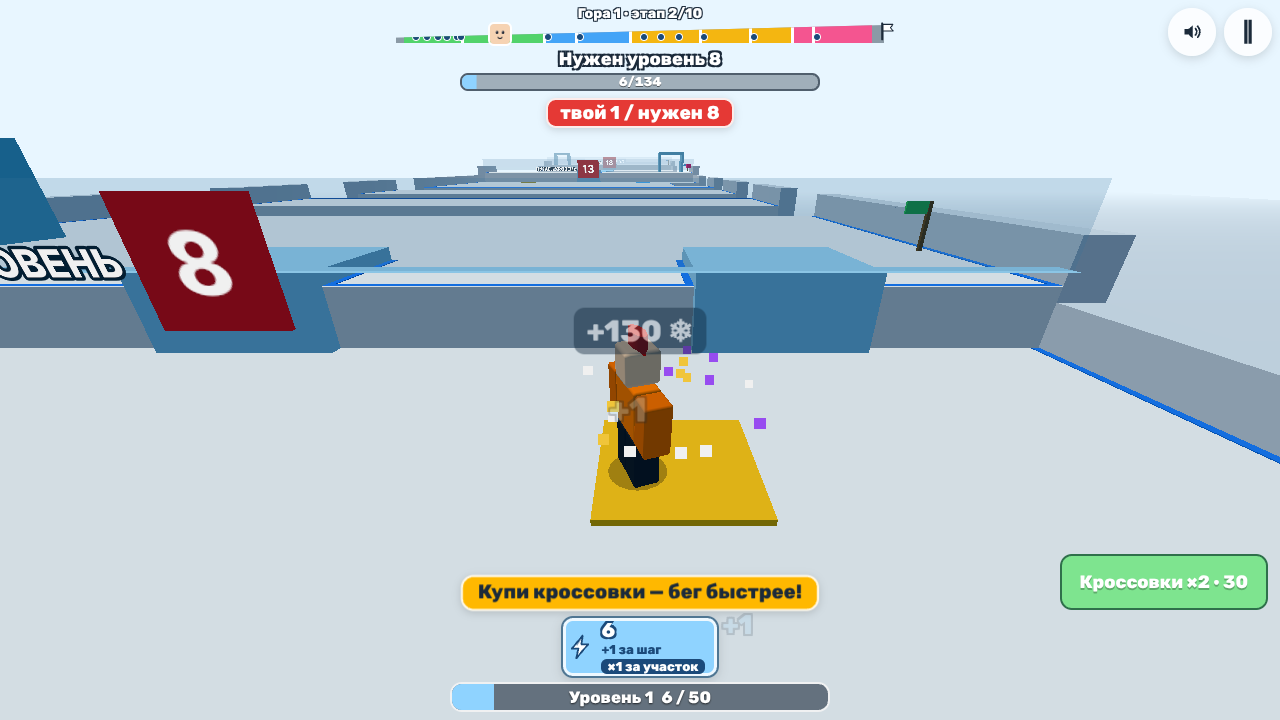
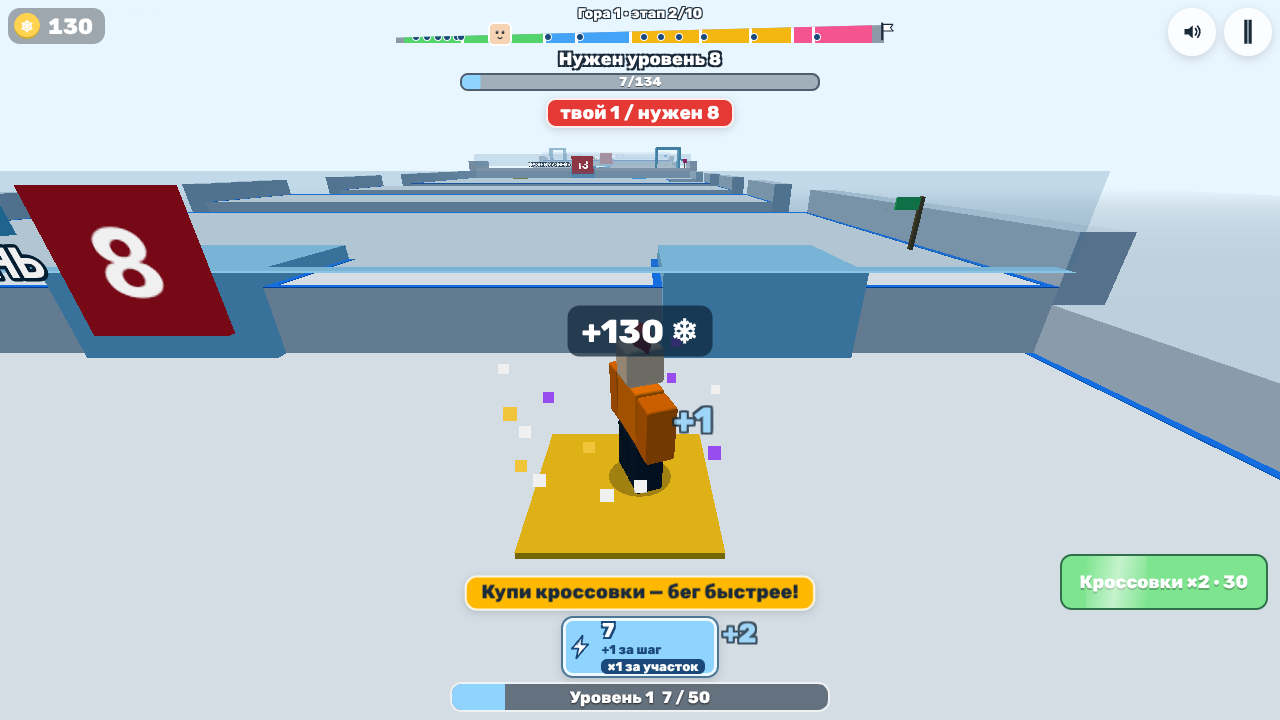
SD-11: ревизор-игрок по валютам и правки — «+N ❄» над кнопкой этапа, телепорт без значка кубка, плашка монет сразу, награды без «+0»
Claude-Session: https://claude.ai/code/session_01XtHYjMWcS9tMAGH9oMjFT7

diff --git a/src/ui/hud.ts b/src/ui/hud.ts
@@ -431,7 +431,8 @@ export function createHud(host: HTMLElement, opts: HudOptions): Hud {
   standLabel.dataset['role'] = 'stand-label';
   standLabel.style.pointerEvents = 'none';
   root.appendChild(standLabel);
-  // The trophy button of a stage finish (docs/01-gdd.md 22.8): «+N 🏆» over it, the trophy colour.
+  // The reward button of a stage finish (docs/01-gdd.md 22.8): «+N ❄» over it on the coin colour — it pays coins (SD-11,
+  // Q-088: trophies are only those of summits); the teleport of the camp — the plain plaque, no currency mark.
   const padLabel = el('div', 'hud-egg hud-pad');
   padLabel.dataset['role'] = 'pad-label';
   // The teleport label of the camp is a button too (LV-12: it looked like one).
@@ -441,9 +442,8 @@ export function createHud(host: HTMLElement, opts: HudOptions): Hud {
     ev.stopPropagation();
     opts.onPadLabel?.();
   });
-  padLabel.style.setProperty('--trophies', opts.trophyColor);
-  const padIcon = el('span', 'hud-pad-icon');
-  padIcon.innerHTML = icon('trophy');
+  padLabel.style.setProperty('--coins', opts.coinColor);
+  const padIcon = el('span', 'hud-pad-icon', '\u2744');
   const padText = el('span', '');
   padLabel.append(padText, padIcon);
   root.appendChild(padLabel);

diff --git a/src/styles.css b/src/styles.css
@@ -250,8 +250,10 @@ canvas.fallback {
 .hud-egg { position: absolute; left: 0; top: 0; display: none; min-height: 48px; padding: 0 16px; border: 2px solid rgba(27, 42, 58, 0.6); border-radius: 12px; background: #9aa7b4; color: #fff; font: 800 18px/1 var(--font); white-space: nowrap; text-shadow: 0 2px 0 rgba(0, 0, 0, 0.25); cursor: pointer; touch-action: none; user-select: none; -webkit-user-select: none; }
 .hud-egg.shown { display: flex; align-items: center; }
 .hud-egg.can { background: var(--ok); }
-.hud-pad { background: var(--trophies); gap: 6px; font-size: 20px; }
-.hud-pad-icon { width: 22px; height: 22px; display: inline-flex; }
+.hud-pad { background: var(--coins); color: var(--plaque-text); gap: 6px; font-size: 20px; text-shadow: 0 2px 2px rgba(0, 0, 0, 0.45); }
+.hud-pad.tap { background: var(--plaque); }
+.hud-pad.tap .hud-pad-icon { display: none; }
+.hud-pad-icon { width: 22px; height: 22px; display: inline-flex; align-items: center; justify-content: center; }
 .hud-pad-icon svg { width: 100%; height: 100%; }
 .hud-coin-icon svg { width: 100%; height: 100%; display: block; }
 /* One message near the hero at a time: the egg button steps aside while a toast is up (after a hatch). */

diff --git a/src/app/rewards.ts b/src/app/rewards.ts
@@ -54,7 +54,12 @@ export function createRewards(d: RewardsDeps): Rewards {
       const sim = d.getSim();
       const zone = zoneAt(sim.level, sim.hero.pos.z);
       const gift = sim.gifts.find((g) => g.zone === zone) ?? sim.gifts[0];
-      return scaled(gifts * (gift?.coins ?? 0), sim.tier, d.balance.rebirth);
+      // SD-11 (review: «Coins +0» on the base and the stages, no gifts there): the zone value of the mountain (SD-02).
+      const zg = sim.level.zoneGifts ?? {};
+      // The base has no zones: the first zone of the player's mountain.
+      const own = d.worlds.find((w) => w.index === (d.save.world ?? 1))?.zones[0]?.gift;
+      const value = gift?.coins ?? zg[zone] ?? Object.values(zg)[0] ?? own ?? 0;
+      return scaled(gifts * value, sim.tier, d.balance.rebirth);
     },
     eggOf(id) {
       if (id !== 'best') return d.eggs.eggs.find((e) => e.id === id);

diff --git a/src/app/stage-view.ts b/src/app/stage-view.ts
@@ -54,10 +54,14 @@ export function createStageView(d: StageViewDeps): StageView {
       return taken;
     },
     wire(sim) {
-      sim.events.on('trophyTake', ({ amount, x, y, z, trophies }) => {
+      sim.events.on('trophyTake', ({ amount, x, y, z, trophies, total }) => {
         taken++;
         d.hud.toast(t('toast.trophyPad', { n: fmt(amount) }));
-        if (!trophies) d.hud.popCoinGain(`+${fmt(amount)}`);
+        if (!trophies) {
+          // SD-11 (review: the coin plaque stayed hidden after a button): the wallet shows at once.
+          d.hud.setCoins(fmt(total));
+          d.hud.popCoinGain(`+${fmt(amount)}`);
+        }
         d.fx()?.burst('confetti', x, y + 1.5, z, [d.theme.ui.trophies, '#ffffff', d.theme.ui.coins], 36, 9, 3);
         d.play('levelUp');
         d.onTrophy?.(amount, trophies);

diff --git a/docs/evidence/sd/review-coins.md b/docs/evidence/sd/review-coins.md
@@ -1,0 +1,82 @@
+# Ревизор-игрок: валюты после решения продюсера 16.10 (Q-088, SD-11)
+
+Дата: 16.10. Сборка `dist-e2e` от 08:44 (содержит SD-11, строка «Купи кроссовки» в сборке есть). Темп `stages`, окно 812×375, касания (`hasTouch`, `mock_device=mobile`). Временный spec на фикстурах e2e, после прогона удалён. До финишей добирался телепортом и `setStat`; кнопки нажимал касанием по реальным элементам.
+
+**Итог:** правило про валюты в цифрах выполнено. Кнопка этапа даёт монеты, кроссовки и телепорт списывают монеты, кубки дают только вершины. Но на экране значок кубка всё ещё стоит у двух вещей, которые относятся к монетам: у подписи «+N» над кнопкой финиша этапа и у кнопки «Телепорт» в лагере. Обе подписи фиолетовые, это цвет кубков. Кроме того, после кнопки этапа в HUD не появляется плашка монет. Найдены ещё две вещи не про валюты: на базе кнопки сообществ закрывают правую колонку меню, а в «Наградах за время» стоит «Монеты +0».
+
+## По пунктам
+
+| № | Что | Вердикт | Доказательство |
+|---|---|---|---|
+| 1 | Кнопка финиша этапа | **найдено** (подпись) / в порядке (начисление) | Гора 1, этап 2. Подпись над кнопкой: «+130» со **значком кубка**, фиолетовая (`coins-pad-cup.png`). Тост: «+130 ❄», у плашки: «+130». Монет +130, `trophies.now` +0, `trophies.total` +0. Потом полёт в лагерь (hero.z 20). Пока герой стоит на кнопке все 50 тиков до полёта, монеты начисляются один раз (+130, `padsTaken` 1 → 0 после лагеря). Гора 3, этап 2: монет +1900, тост «+1,9K ❄», кубки +0. **Плашки монет в HUD нет** ни после +130, ни после +1,9K (`coinPlaque.shown=false`, на скриншоте лагеря её тоже нет) |
+| 2 | Кроссовки за монеты | в порядке (мелочь) | Кнопка HUD «Кроссовки ×2 · 30»: касание списывает 30 монет, кубки +0. Лавка, вкладка «Кроссовки»: в шапке «❄4,97K», на карточке «❄300 Купить», покупка списывает 300 монет, кубки +0. Мелочь: на кнопке HUD цена без значка ❄ |
+| 3 | Телепорт лагеря | в порядке (окно) / **найдено** (кнопка) | Окно: «Этап 2 — за 130 ❄», после первого касания «Да, за 130 ❄», после второго монет −130, кубки +0, герой на старте этапа 2. Гора 3: «за 1,9K ❄», монет −1900. Но кнопка-подпись в лагере — «Телепорт» со **значком кубка** на фиолетовом (`coins-camp-teleport.png`), а платится он монетами |
+| 4 | Окно вершины гор 1 и 2 | в порядке | Гора 1: «Сундук: +500» со значком ❄ (монет +500), «Кубки: +1» со значком кубка (кубки 0 → 1). Гора 2: «Сундук: +2K» ❄, «Кубки: +2» (кубки 1 → 3). Плашка кубков в HUD — значок кубка и «1», потом «3», то есть `trophies.now`. Плашка монет рядом отдельная: ❄ 500, потом ❄ 2,5K. До первой вершины плашки кубков нет |
+| 5 | Все «кубк»/🏆 на экране | **найдено** (2 употребления значка про монеты) | Список ниже |
+| 6 | «Купи кроссовки — бег быстрее!» | в порядке | Гора 1: герой ниже закрытого рубежа этапа 3 (z 510, рубеж z 519, уровень 5 из нужных 8), монет хватает, плашка видна. Она же стоит на финише этапа 2 сразу после +130 монет. Гора 3: в лагере при 1,9K монет |
+| 7 | Сквозной грот этапа 6 | в порядке | Гора 1, этап 6. На «Лавина через N» плашка «Спрячься за камень!», герой в гроте (z 1203,7, x −18). После волны тост «Уф, успел! +54». Стик «вверх» 5 с: герой прошёл грот насквозь и ушёл по склону с 1204,7 до 1431,7 (+227), x ровно −17,6, скорость 42,5–42,8, не застрял. Мелочь: в «Уф, успел! +54» нет значка ❄ |
+
+## Находки
+
+| № | Серьёзность | Где | Что | Что предлагаю |
+|---|---|---|---|---|
+| 1 | **3** | Подпись над кнопкой финиша этапа (`[data-role=pad-label]`, `src/ui/hud.ts`, `padIcon = icon('trophy')`, цвет `--trophies`) | «+130» со **значком кубка**, фиолетовая, а кнопка даёт монеты. Тост рядом при этом «+130 ❄». Одна награда помечена двумя валютами | Поставить значок ❄ и цвет монет вместо кубка и фиолетового |
+| 2 | **3** | Кнопка «Телепорт» в лагере (та же подпись) | «Телепорт» со **значком кубка** на фиолетовом, а платится монетами («за 130 ❄») | Убрать значок кубка или поставить ❄ |
+| 3 | 2 | HUD, темп stages, до первой вершины | Кнопка этапа дала +130 и +1,9K монет, а плашки монет нет (`coinPlaque.shown=false`). Игрок не видит, сколько у него монет, хотя телепорт и кроссовки стоят монеты. Плашка появляется только после монет из другого источника: «Уф, успел! +54» или сундук вершины | В обработчике `trophyTake` вызывать `hud.setCoins`, как это делают другие источники монет |
+| 4 | 2 | База, 812×375 | Кнопки сообществ («Telegram — Яйцо за подписку», «ВКонтакте — Яйцо за подписку», «Сундук за отзыв») закрывают правую колонку меню: Питомцы, Календарь, Награды. Касание не доходит, `elementFromPoint` в центре кнопки возвращает кнопку сообщества. Ещё они почти целиком закрывают «Кроссовки ×2 · 30» | Сдвинуть кнопки сообществ, чтобы они не лезли на колонку меню и на кроссовки при низкой высоте экрана |
+| 5 | 2 | «Награды за время» и колесо удачи (на базе) | «Монеты +0» на плитках 1 и 15 мин и в трёх секторах колеса. В календаре у «День 1» «Монеты» без числа. Причина в `rewards.coinsOf`: сумма считается от подарков зоны, а на базе (и, видимо, на горах stages) подарков нет | Задать монетам наград минимум на темпе stages или считать от награды этапа |
+| 6 | 1 | Кнопка кроссовок в HUD | «Кроссовки ×2 · 30» без значка валюты. Теперь валют две, и цена без значка читается хуже | «… · 30 ❄» |
+| 7 | 1 | Тост после грота | «Уф, успел! +54» без ❄ | Добавить ❄ |
+
+## Все «кубк» и 🏆 на экране
+
+Текстовый эмодзи 🏆 на экране не встретился ни разу: везде SVG-значок кубка. В `ru.json` осталась строка `hud.shoesBtnTrophies` («… 🏆»), но она включается только при `upgrade.currency = trophies`, а сейчас это не так. На экран она не попала.
+
+| Где | Текст или значок | Что значит | Верно? |
+|---|---|---|---|
+| Подпись над кнопкой финиша этапа | «+130» + значок кубка | **монеты** | **нет (находка 1)** |
+| Кнопка «Телепорт» в лагере | «Телепорт» + значок кубка | телепорт **за монеты** | **нет (находка 2)** |
+| Окно вершины | «Кубки: +1» / «Кубки: +2» + значок кубка | кубки вершины | да |
+| HUD, плашка под монетами (после первой вершины) | значок кубка + «1» / «3» | `trophies.now` | да |
+| Доска рекордов базы | «Кубков всего: 1» | `trophies.total` | да |
+| Лавка, вкладки «Трейлы» и «Ауры» | шапка: значок кубка + баланс; цены: значок кубка 3…1K | кубки (косметика, как в гардеробе) | да, по правилу «гардероб» |
+| Календарь | «День 4 — 5 кубков», «День 6 — 10 кубков» + значок кубка | награда календаря | да |
+| Награды за время | «Кубки +3» (10 мин), «Кубки +10» (60 мин) + значок кубка | награда за время | да (это те же «награды календаря/заданий») |
+| Колесо удачи | «Кубки +3», «Кубки +5», «Кубки +10» + значок кубка | награда колеса | да |
+| Тексты в данных, на экран в прогоне не вышли | «Больше кубков за каждую вершину» (перерождение), «За все три: 5 кубков и Снежное яйцо» (задания), «Ярлык готов! +N 🏆» | кубки | да, по смыслу кубки |
+
+Ни один текст со словом «кубк» не означает монеты. Монеты кубками называют только два значка (находки 1 и 2).
+
+## Прочее, замеченное по пути
+- На горе 3 подпись «+1900» над кнопкой этапа не показалась: в этот момент на экране висел крупный тост «Так держать! Завтра в календаре — подарок дня». Монеты начислились верно. Не находка, но подпись, которую закрывает тост, стоит проверить отдельно.
+- «Время: 0:02» в окне вершины — из-за телепорта в тесте, не находка.
+- «Висящих» объектов и «+0» на склоне в кадрах не видел. Плашка «Купи кроссовки — бег быстрее!» местами наезжает на всплывающие «+1» — косметика.
+
+## Проверено / не проверено
+**Проверено:**
+- кнопки финиша этапа 2 гор 1 и 3: подпись, тост, монеты и кубки до и после, полёт в лагерь, одно начисление за окно полёта;
+- телепорт лагеря гор 1 и 3: окно, подтверждение, списание монет;
+- кроссовки: кнопкой HUD и в лавке, списание монет;
+- окна вершин гор 1 и 2, плашки кубков и монет, доска рекордов базы;
+- лавка (все 4 вкладки), Питомцы, Календарь, Награды за время, колесо;
+- плашка «Купи кроссовки» у закрытого рубежа;
+- сквозной грот этапа 6 горы 1 после волны.
+
+**Не проверено:**
+- гардероб, задания и перерождение: на базе после первой вершины этих кнопок нет;
+- полное прохождение этапов ногами: использовал телепорт и `setStat`;
+- английские тексты;
+- гроты этапов 6 гор 2 и 3;
+- что будет, если после полёта в лагерь снова дойти до той же кнопки в новом забеге: по коду кнопка в новом забеге снова даёт монеты, так и задумано («раз за забег»), но вживую не прогонял.
+
+Кадры: `coins-pad-cup.png` (находка 1), `coins-camp-teleport.png` (находки 2 и 3), `coins-time-rewards-zero.png` (находка 5). Остальные кадры (вершины, телепорт, лавка, грот, перекрытое меню базы) — в scratchpad сессии, в репозиторий не клал.
+
+## Статус находок (сборщик, 16.10)
+| № | Статус |
+|---|---|
+| 1 | Исправлено: подпись над кнопкой этапа — «+N ❄» на цвете монет (`src/ui/hud.ts`, `src/styles.css`) |
+| 2 | Исправлено: подпись «Телепорт» в лагере — обычная плашка без значка валюты |
+| 3 | Исправлено: после кнопки этапа плашка монет сразу показывает кошелёк (`src/app/stage-view.ts`); кадр `trophy-pad.png` |
+| 4 | Не трогал: раскладка кнопок сообществ на базе — следующая веха по макетам |
+| 5 | Исправлено: «Монеты +N» в наградах за время и колесе считаются от подарка зоны горы (на базе — горы игрока), без «+0» (`src/app/rewards.ts`) |
+| 6, 7 | Не трогал (серьёзность 1): значок ❄ у цены кроссовок и в «Уф, успел!» — в веху текстов |

diff --git a/progress.md b/progress.md
@@ -50,6 +50,10 @@
 
 ## Записи
 
+### 2026-10-16 · SD-11 · ревизор-игрок по валютам и правки
+- Сделано: ревизор прошёл горы 1–3 на 812×375 касаниями (`docs/evidence/sd/review-coins.md`): в цифрах правило выполнено — кнопка этапа даёт монеты, кроссовки и телепорт списывают монеты, кубки только у вершин, слово «кубк» нигде не значит монеты. Исправил по нему: значок кубка у подписи «+N» над кнопкой этапа и у «Телепорт» (теперь «+N ❄» на цвете монет и плашка без значка); плашка монет появляется сразу после кнопки; «Монеты +0» в наградах за время и колесе на базе и на `stages`
+- Тесты: `verify:fast` — Vitest 513 из 513; e2e `lv-trophy`, `lv-tutorial`, `fm-base`, `daily`, `quests`, `fm-hud`, `lv-ux` — 13 из 13
+
 ### 2026-10-16 · SD-11 (1–3) · рубежи легче и подсказка кроссовок, окно прыжка шире, сквозные гроты (Q-088)
 - Сделано: `stages.gateK` 1,2 → 1,1 — все рубежи чуть ниже (первая минута не тронута); у закрытого рубежа, когда хватает монет, — «Купи кроссовки — бег быстрее!». Окно прыжка: ямы 0,83 → 0,79 прыжка на v(N), сила от уровня 1,1 → 1,13 (иначе N−2 допрыгивал — моё предложение «1,08» было неверным, записал в Q-088). Гроты-скалы этапов без задней стены — выход вверх по склону
 - Тесты: `verify:fast` — Vitest 513 из 513 (бот этапов 36 из 36: N ≥ 9 из 10, N−2 ≤ 3 из 10; новый тест «грот сквозной»), validate:content ок; e2e `lv-*` и `sd-*` — 29 из 29
